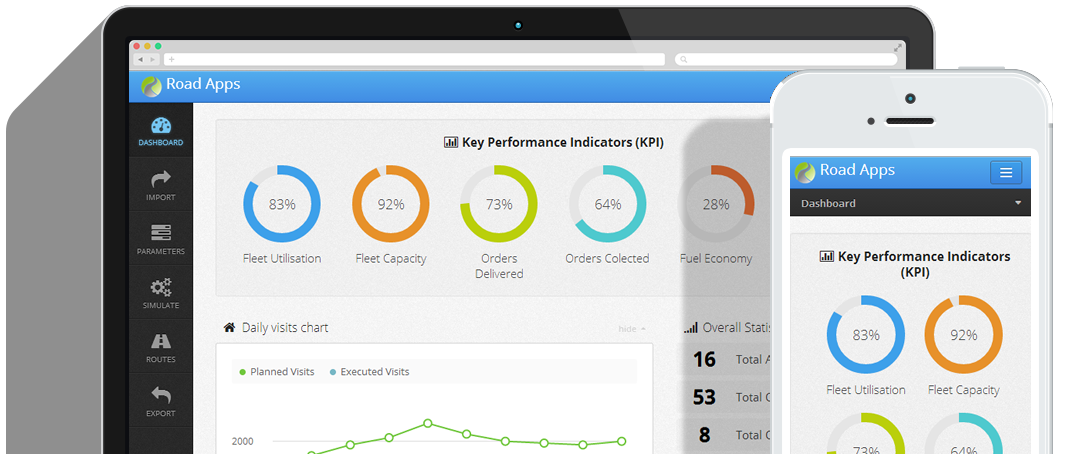
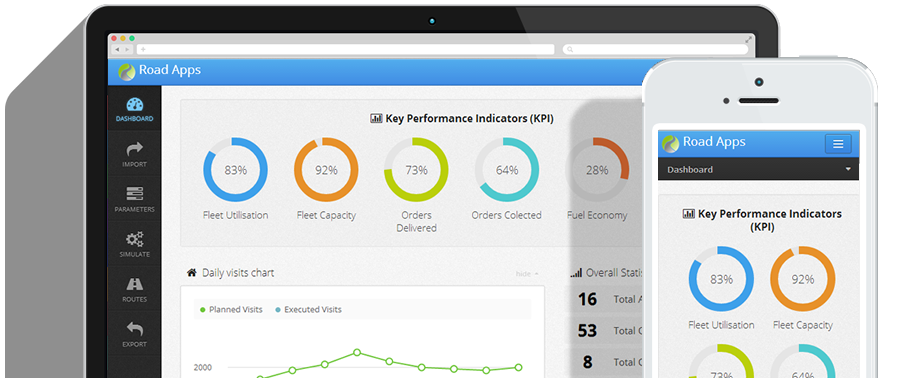
Added resize fonts and images

diff --git a/projects/roadapps-website/assets/css/style.css b/projects/roadapps-website/assets/css/style.css
@@ -133,7 +133,7 @@ p.legend {
 	color: #FFF;
 	border: 2px solid #FFF;
 
-	padding: 10px 15px;
+	padding: 5px 10px;
 	display: inline-block;
 	margin-top: 30px;
 	font-weight: bold;	
@@ -261,7 +261,7 @@ p.legend {
 	text-align: center;
 }
 .heading-text p {
-	font-size: 20px;
+	font-size: 18px;
 }
 #header2 .heading-text h1, #interna .heading-text h1, #interna .heading-text h2  {
 	color: #1192d3;
@@ -269,7 +269,7 @@ p.legend {
 .heading-text h1 {
 	margin-top: 60px;
 	margin-bottom: 20px;
-	font-size: 48px;
+	font-size: 45px;
 	color: #FFF;
 	font-weight: 300;
 	text-transform: uppercase;
@@ -504,8 +504,8 @@ p.legend {
 /* Testimonials */
 .testimonials {
 	background: #f6f6f6;
-	padding: 10px 0 60px 0;
-	margin-top: 60px;
+	padding: 10px 0 30px 0;
+	margin-top: 30px;
 }
 .testimonials h2 {
 	margin-top: 60px;
@@ -545,7 +545,7 @@ p.legend {
 .footer-meta {
 	background: #222;
 	color: #666;
-	font-size: 14px;
+	font-size: 13px;
 }
 .footer-meta h6 {
 	color: #FFF;
@@ -554,7 +554,7 @@ p.legend {
 }
 .footer-meta p {
 	color: #666;
-	font-size: 14px;
+	font-size: 13px;
 }
 .footer-meta .span3 {
 	margin-top: 30px;
@@ -571,7 +571,7 @@ p.legend {
 	padding: 30px 0 20px 0;
 }
 .copyright {
-	font-size: 16px;
+	font-size: 13px;
 	color: #4a4a4a;
 	margin-top: 15px;
 }
@@ -1112,7 +1112,7 @@ blockquote {
 }
 blockquote p {
 	margin-bottom: 0;
-	font-size: 20px !important;
+	font-size: 16px !important;
 	font-weight: 400 !important;
 	line-height: 26px !important;
 	color: #333 !important;

diff --git a/projects/roadapps-website/index.html b/projects/roadapps-website/index.html
@@ -69,7 +69,7 @@
 							<p>a primeira platorma de apps voltada ao mercado de transporte rodoviario</p>
 							<div class="row">
 								<div class="span6">
-									<img src="assets/img/mapmarker.jpg" height="450" width="600" alt="">
+									<img src="assets/img/mapmarker.jpg" height="300" width="400" alt="">
 								</div>
 								<div class="span6">
 								    <form id="signup-form" class="pull-right">
@@ -235,7 +235,7 @@ You’ll be up and running in less than a minute</p>
 		</div>
 
 		<div style="background:#1192d3; text-align: center;">
-			<img src="assets/img/featured-maciphone.png" height="454" width="1080" alt="">
+			<img src="assets/img/featured-maciphone.png" height="378" width="900" alt="">
 		</div>
 
 		<div class="testimonials">
